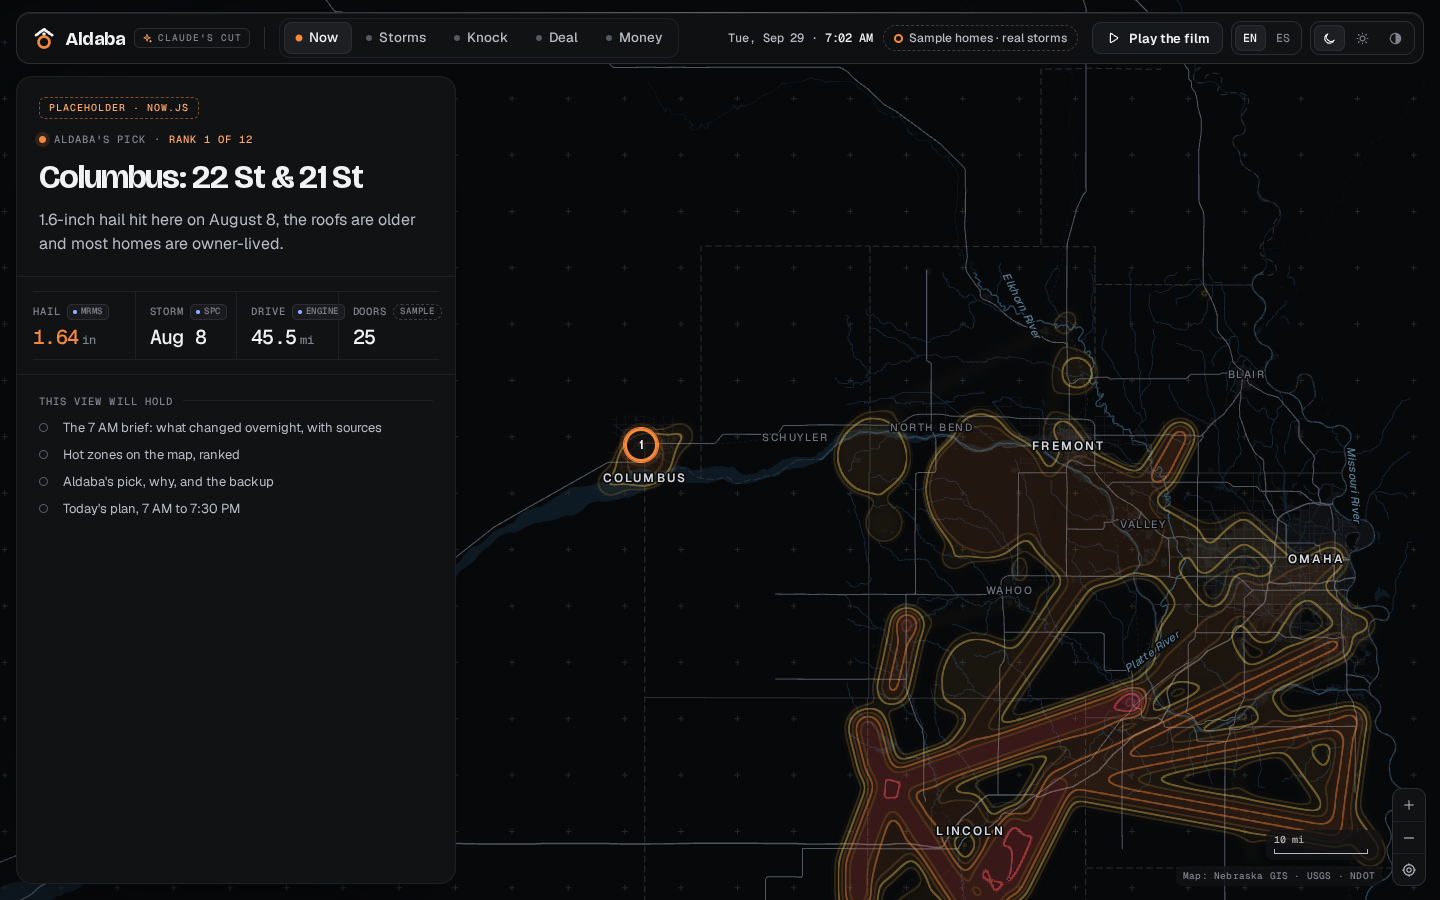
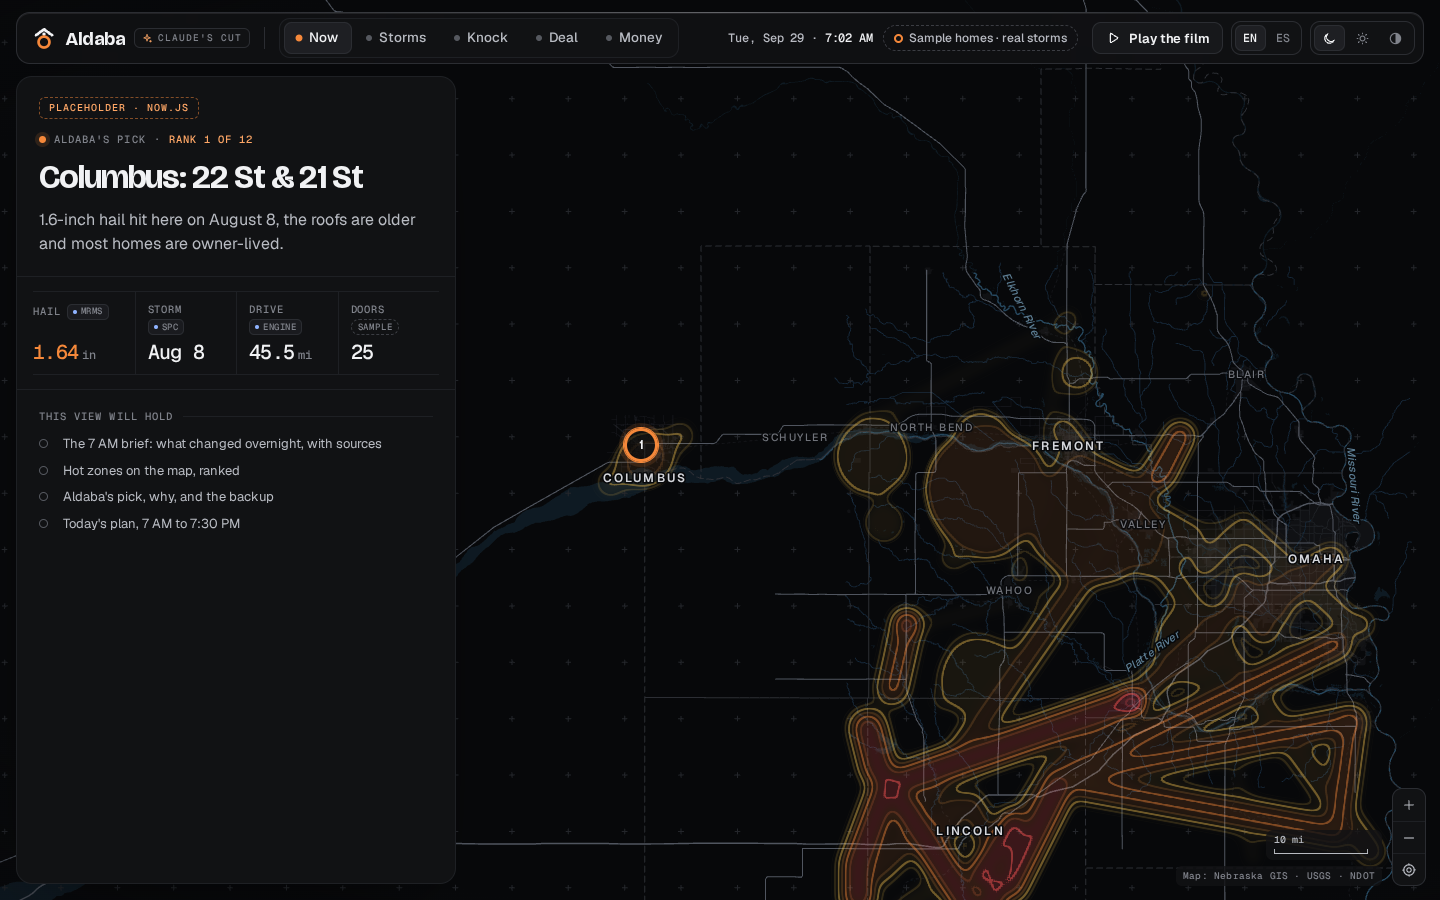
WIP Claude's Aldaba: foundation contract + shell in progress
Claude-Session: https://claude.ai/code/session_01AFT5CWjL9atnV2a1EM6JUz

Changed region(s): [[0.0312, 0.4356, 0.2812, 0.5911], [0.0938, 0.3422, 0.2812, 0.4044], [0.0312, 0.3733, 0.0625, 0.4044]]

diff --git a/docs/design/claudes-aldaba/js/lib/hailgl.js b/docs/design/claudes-aldaba/js/lib/hailgl.js
@@ -168,10 +168,11 @@
       for (i = 0; i < run.length; i++) {
         bx0 = Math.min(bx0, run[i][0]); by0 = Math.min(by0, run[i][1]); bx1 = Math.max(bx1, run[i][0]); by1 = Math.max(by1, run[i][1]);
       }
-      if (run.length === 1) { segs.push({ ax: run[0][0], ay: run[0][1], dx: 0, dy: 0, len: 0, s0: L, first: true, last: true }); continue; }
+      if (run.length === 1) { segs.push({ ax: run[0][0], ay: run[0][1], dx: 0, dy: 0, len: 0, s0: L, first: true, last: true, x0: run[0][0], y0: run[0][1], x1: run[0][0], y1: run[0][1] }); continue; }
       for (i = 0; i < run.length - 1; i++) {
         var ax = run[i][0], ay = run[i][1], dx = run[i + 1][0] - ax, dy = run[i + 1][1] - ay, len = Math.hypot(dx, dy);
-        segs.push({ ax: ax, ay: ay, dx: dx, dy: dy, len: len, s0: L, first: i === 0, last: i === run.length - 2 });
+        segs.push({ ax: ax, ay: ay, dx: dx, dy: dy, len: len, s0: L, first: i === 0, last: i === run.length - 2,
+          x0: Math.min(ax, ax + dx), y0: Math.min(ay, ay + dy), x1: Math.max(ax, ax + dx), y1: Math.max(ay, ay + dy) });
         L += len;
       }
     }
@@ -196,8 +197,12 @@
     SD[k] = Math.sqrt(d2); SS[k] = s;
   }
   function stormEval(g, px, py) {
-    var segs = g.segs, n = Math.min(segs.length, 256), dmin = 1e18, k;
-    for (k = 0; k < n; k++) { segDist(segs[k], px, py, k); if (SD[k] < dmin) dmin = SD[k]; }
+    var segs = g.segs, n = Math.min(segs.length, 256), dmin = 1e18, k, R = g.reach;
+    for (k = 0; k < n; k++) {
+      var sg = segs[k];
+      if (px < sg.x0 - R || px > sg.x1 + R || py < sg.y0 - R || py > sg.y1 + R) { SD[k] = 1e18; continue; }
+      segDist(sg, px, py, k); if (SD[k] < dmin) dmin = SD[k];
+    }
     EV.d = dmin; EV.v = 0; EV.a = 0;
     if (dmin > g.reach) return EV;
     var lim = dmin + 1.25 * g.halfW, best = -1;
@@ -273,15 +278,33 @@
     var n = w * h, data = new Float32Array(n), arrival = new Float32Array(n);
     var tmp = new Float32Array(n), tmpA = new Float32Array(n);
     var txm = spanX / w * mpu, tym = spanY / h * mpu, gx0 = x0 * mpu, gy0 = y0 * mpu; // texel size + origin in miles
-    // shared domain warp + fine amplitude noise, world-anchored so separate builds line up
+    // shared domain warp + fine amplitude noise on a 0.5 mi lattice anchored in world miles (separate builds line
+    // up), bilinearly interpolated per texel: the noise is low frequency, so this is exact enough and ~10x cheaper
     var WX = new Float32Array(n), WY = new Float32Array(n), AN = new Float32Array(n), have = new Uint8Array(n);
-    function warpAt(i, px, py) {
-      if (!have[i]) {
-        WX[i] = 1.35 * fbm(px / 7.5 + 11.3, py / 7.5 - 4.1);
-        WY[i] = 1.35 * fbm(px / 7.5 - 21.7, py / 7.5 + 8.9);
-        AN[i] = fbm(px / 2.6 + 3.1, py / 2.6 + 5.3);
-        have[i] = 1;
+    var LS = 0.5, lx0 = Math.floor(gx0 / LS) - 1, ly0 = Math.floor(gy0 / LS) - 1;
+    var lw = Math.ceil((gx0 + spanX * mpu) / LS) - lx0 + 3, lh = Math.ceil((gy0 + spanY * mpu) / LS) - ly0 + 3;
+    var LX = new Float32Array(lw * lh), LY = new Float32Array(lw * lh), LA = new Float32Array(lw * lh), lhave = new Uint8Array(lw * lh);
+    function lat(ix, iy) {
+      var j = iy * lw + ix;
+      if (!lhave[j]) {
+        var qx = (ix + lx0) * LS, qy = (iy + ly0) * LS;
+        LX[j] = 1.35 * fbm(qx / 7.5 + 11.3, qy / 7.5 - 4.1);
+        LY[j] = 1.35 * fbm(qx / 7.5 - 21.7, qy / 7.5 + 8.9);
+        LA[j] = fbm(qx / 2.6 + 3.1, qy / 2.6 + 5.3);
+        lhave[j] = 1;
       }
+      return j;
+    }
+    function warpAt(i, px, py) {
+      if (have[i]) return;
+      var fx = px / LS - lx0, fy = py / LS - ly0, ix = Math.floor(fx), iy = Math.floor(fy);
+      fx -= ix; fy -= iy;
+      var a = lat(ix, iy), b = lat(ix + 1, iy), c = lat(ix, iy + 1), d = lat(ix + 1, iy + 1);
+      var w00 = (1 - fx) * (1 - fy), w10 = fx * (1 - fy), w01 = (1 - fx) * fy, w11 = fx * fy;
+      WX[i] = LX[a] * w00 + LX[b] * w10 + LX[c] * w01 + LX[d] * w11;
+      WY[i] = LY[a] * w00 + LY[b] * w10 + LY[c] * w01 + LY[d] * w11;
+      AN[i] = LA[a] * w00 + LA[b] * w10 + LA[c] * w01 + LA[d] * w11;
+      have[i] = 1;
     }
     var splitMi = num(o.splitMi, 40), seasonal = o.arrival === 'season';
     var order = storms.map(function (s, i) { return { i: i, d: String(s.date || '') }; })
@@ -427,16 +450,19 @@
       out[i * 4 + 3] = Math.round(clamp(g[i] / 3, 0, 1) * 255);
     }
     // relief: central-difference gradient, normalized by the 95th percentile slope so any world units light the same
-    var gx = new Float32Array(n), gy = new Float32Array(n), mags = [], x, y;
+    var gx = new Float32Array(n), gy = new Float32Array(n), x, y, gmx = 1e-9, cnt = 0;
     for (y = 0; y < h; y++) for (x = 0; x < w; x++) {
       i = y * w + x;
       var ax = d[y * w + Math.min(x + 1, w - 1)] - d[y * w + Math.max(x - 1, 0)];
       var ay = d[Math.min(y + 1, h - 1) * w + x] - d[Math.max(y - 1, 0) * w + x];
       gx[i] = ax * 0.5; gy[i] = ay * 0.5;
-      if (d[i] > 0.4 && (i & 3) === 0) mags.push(Math.sqrt(ax * ax + ay * ay) * 0.5);
+      if (d[i] > 0.4) { var mg = Math.sqrt(ax * ax + ay * ay) * 0.5; if (mg > gmx) gmx = mg; cnt++; }
     }
-    mags.sort(function (a, b) { return a - b; });
-    var gmax = mags.length ? Math.max(mags[Math.floor(mags.length * 0.95)], 1e-6) : 1;
+    var hist = new Uint32Array(512), gmax = 1;
+    if (cnt) {
+      for (i = 0; i < n; i++) if (d[i] > 0.4) hist[Math.min(511, Math.floor(Math.sqrt(gx[i] * gx[i] + gy[i] * gy[i]) / gmx * 511))]++;
+      for (var acc = 0, b = 0; b < 512; b++) { acc += hist[b]; if (acc >= cnt * 0.95) { gmax = Math.max((b + 1) / 511 * gmx, 1e-6); break; } }
+    }
     var nrm = new Uint8Array(n * 4), k2 = 0.5 / (1.6 * gmax);
     for (i = 0; i < n; i++) {
       nrm[i * 4] = Math.round(clamp(0.5 + gx[i] * k2, 0, 1) * 255);

diff --git a/docs/design/claudes-aldaba/css/base.css b/docs/design/claudes-aldaba/css/base.css
@@ -200,9 +200,9 @@ b,strong{font-weight:600;color:var(--text)}
 
 /* ---------- stats ---------- */
 .stats{display:grid;grid-template-columns:repeat(auto-fit,minmax(86px,1fr));border-block:1px solid var(--rule)}
-.stat{display:grid;align-content:start;gap:7px;padding:12px 14px 12px 0;min-width:0}
-.stat+.stat{padding-left:14px;border-left:1px solid var(--rule)}
-.stat__k{display:flex;align-items:center;gap:6px;font:500 var(--fs-micro)/1 var(--mono);letter-spacing:.09em;text-transform:uppercase;color:var(--muted);white-space:nowrap}
+.stat{display:flex;flex-direction:column;justify-content:space-between;gap:7px;padding:12px 12px 12px 0;min-width:0}
+.stat+.stat{padding-left:12px;border-left:1px solid var(--rule)}
+.stat__k{display:flex;flex-wrap:wrap;align-items:center;gap:4px 6px;font:500 var(--fs-micro)/1.1 var(--mono);letter-spacing:.09em;text-transform:uppercase;color:var(--muted)}
 .stat__v{font:500 20px/1 var(--mono);letter-spacing:-.03em;color:var(--text);font-variant-numeric:tabular-nums;white-space:nowrap}
 .stat__u{margin-left:3px;font:500 12px/1 var(--mono);letter-spacing:0;color:var(--muted)}
 .stat__s{font-size:12px;color:var(--muted);line-height:1.35}
